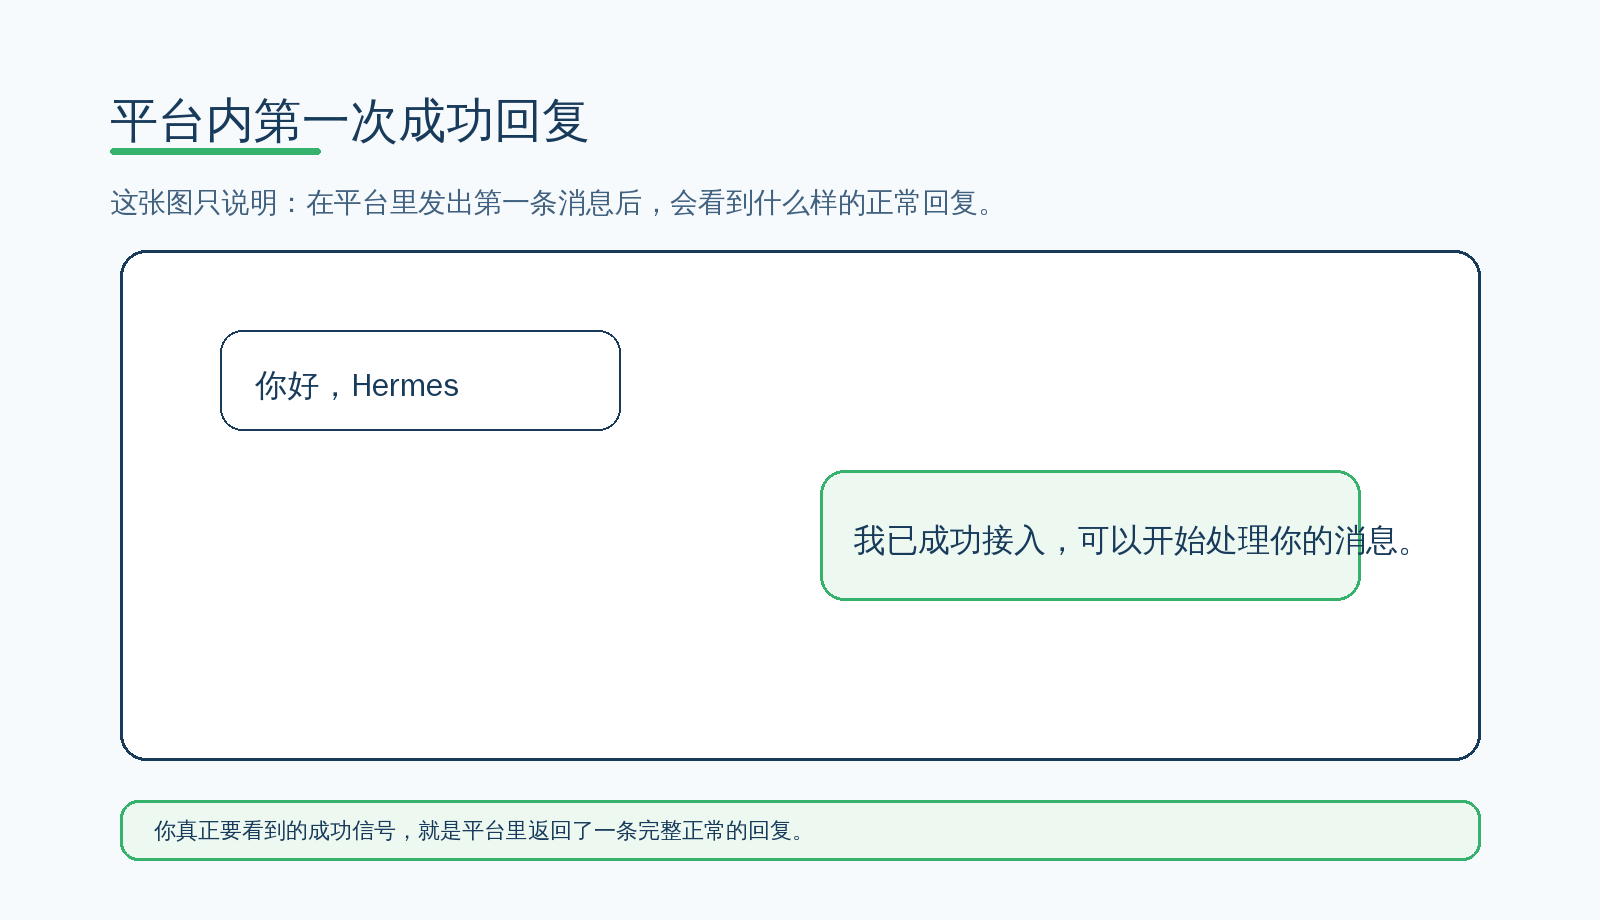
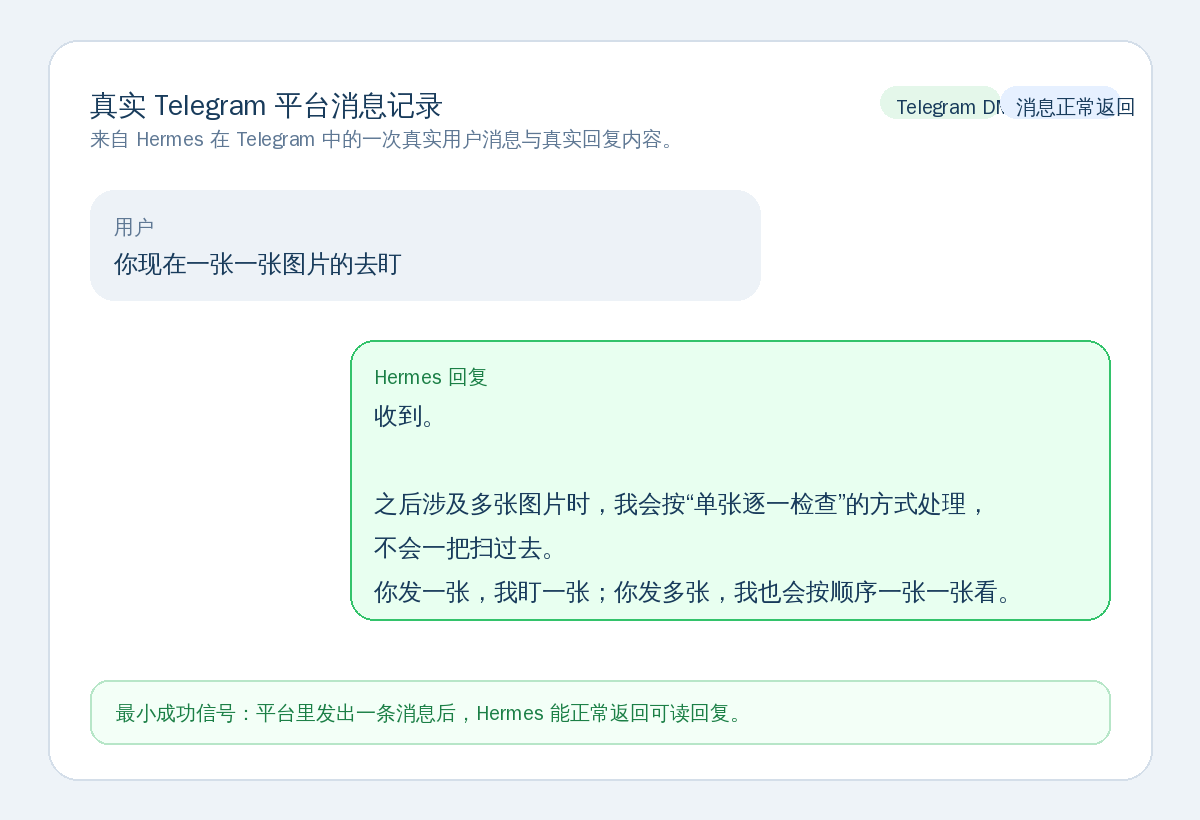
docs: redo message platform entry page

diff --git a/docs/start-here/get-started/connect-message-platform.md b/docs/start-here/get-started/connect-message-platform.md
@@ -5,7 +5,7 @@
 
 ---
 
-## <img src="../assets/icon-run.svg" width="18" alt="接入路径图标" /> 为什么接入消息平台有价值
+## 🚦 为什么接入消息平台有价值
 
 ![消息平台接入路径图：从命令行已跑通，到先推荐飞书，再到团队在消息平台里实际使用](../assets/rm2-3-connect-platform-01-platform-connection-map.png)
 
@@ -28,9 +28,9 @@
 
 ---
 
-## <img src="../assets/icon-hands-on.svg" width="18" alt="飞书图标" /> 为什么第一推荐是飞书
+## 🟢 为什么第一推荐是飞书
 
-![飞书配置界面示意图：这一阶段先理解要配置哪些块，以及为什么先推荐飞书](../assets/rm2-3-connect-platform-02-platform-config-ui.png)
+![官方 Feishu / Lark Setup 页面截图：能直接看到 websocket / webhook 模式说明，以及 `FEISHU_APP_ID`、`FEISHU_APP_SECRET`、`FEISHU_CONNECTION_MODE` 等配置块](../assets/rm2-3-connect-platform-02-platform-config-ui.png)
 
 这一阶段先推荐飞书，不是因为它是唯一选择，而是因为：
 
@@ -54,7 +54,7 @@
 
 ---
 
-## <img src="../assets/icon-terminal-entry.svg" width="18" alt="适合谁图标" /> 飞书适合哪些人
+## 👥 飞书适合哪些人
 
 飞书更适合下面这几类人：
 
@@ -76,7 +76,7 @@
 
 ---
 
-## <img src="../assets/icon-check-success.svg" width="18" alt="准备项图标" /> 接入前你大概要准备什么
+## 🧩 接入前你大概要准备什么
 
 接入飞书前，至少先准备这 4 件事：
 
@@ -100,9 +100,9 @@
 
 ---
 
-## <img src="../assets/icon-check-success.svg" width="18" alt="成功图标" /> 平台内第一次成功长什么样
+## ✅ 平台内第一次成功长什么样
 
-![消息平台内首次成功回复示意图：用户先发第一条消息，Hermes 在平台里返回正常回复](../assets/rm2-3-connect-platform-03-first-message-success.png)
+![真实 Telegram 平台消息记录：用户发出一条消息后，Hermes 在消息平台里返回正常可读回复；真正成功时，飞书里看到的最小信号也应是这种“发出去一条，回回来一条”](../assets/rm2-3-connect-platform-03-first-message-success.png)
 
 你第一次真正要看到的成功信号，不是“配置页看起来很多字段都填了”，而是：
 
@@ -123,27 +123,29 @@
 
 ---
 
-## <img src="../assets/icon-check-success.svg" width="18" alt="去哪里配置图标" /> 详细配置去哪里
+## 📍 详细配置去哪里
 
 这一页不展开详细配置步骤。
 
-真正的详细配置，下一步应该进入：
-- 国内落地 → 飞书接入
+真正的详细配置，下一步建议先看官方文档：
+- [官方 Feishu / Lark Setup](https://hermes-agent.nousresearch.com/docs/user-guide/messaging/feishu)
+- [官方 Messaging Gateway 总览](https://hermes-agent.nousresearch.com/docs/user-guide/messaging/)
 
-如果你后面想看别的平台，也应该到国内落地模块再继续：
-- 国内落地 → 钉钉接入
-- 国内落地 → 企业微信接入
-- 国内落地 → Open WebUI 接入
+如果后面要走国内团队的具体落地路径，再回到我们后续补齐的“国内落地”模块继续：
+- 飞书接入
+- 钉钉接入
+- 企业微信接入
+- Open WebUI 接入
 
 ---
 
 ## 👉 下一步
 
 下一步：
-- 进入国内落地模块，继续做飞书接入的详细配置
+- 先看 [官方 Feishu / Lark Setup](https://hermes-agent.nousresearch.com/docs/user-guide/messaging/feishu)，把详细配置路径读顺
 
 模块完成后：
-- 继续进入“玩出花样”阶段
+- 等“玩出花样”阶段入口页落仓后，再继续进入下一阶段
 
 如果你想回到这一阶段入口重新看全路径：
 - [开始上手](./index.md)
